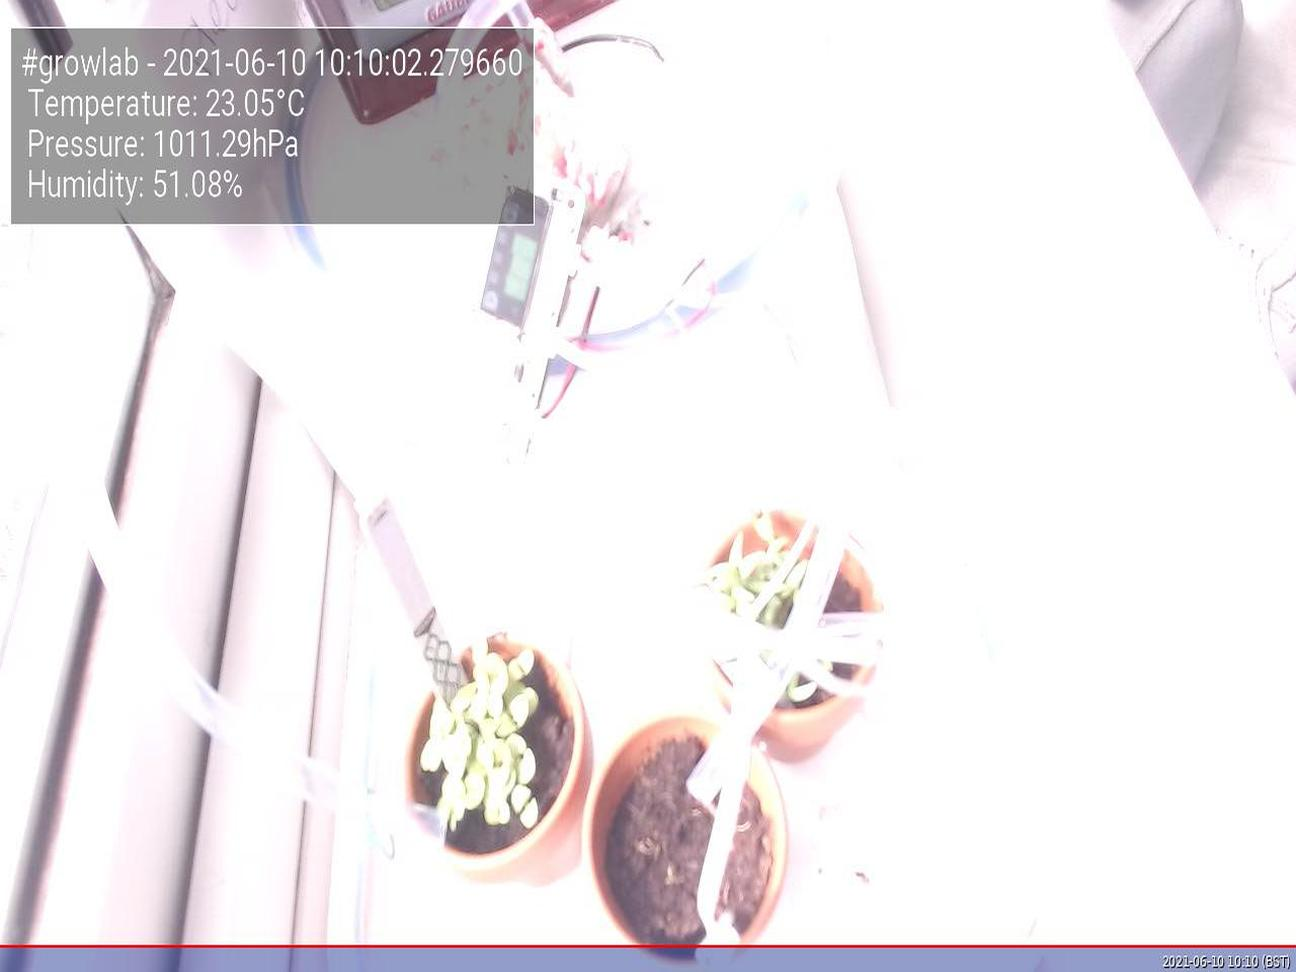
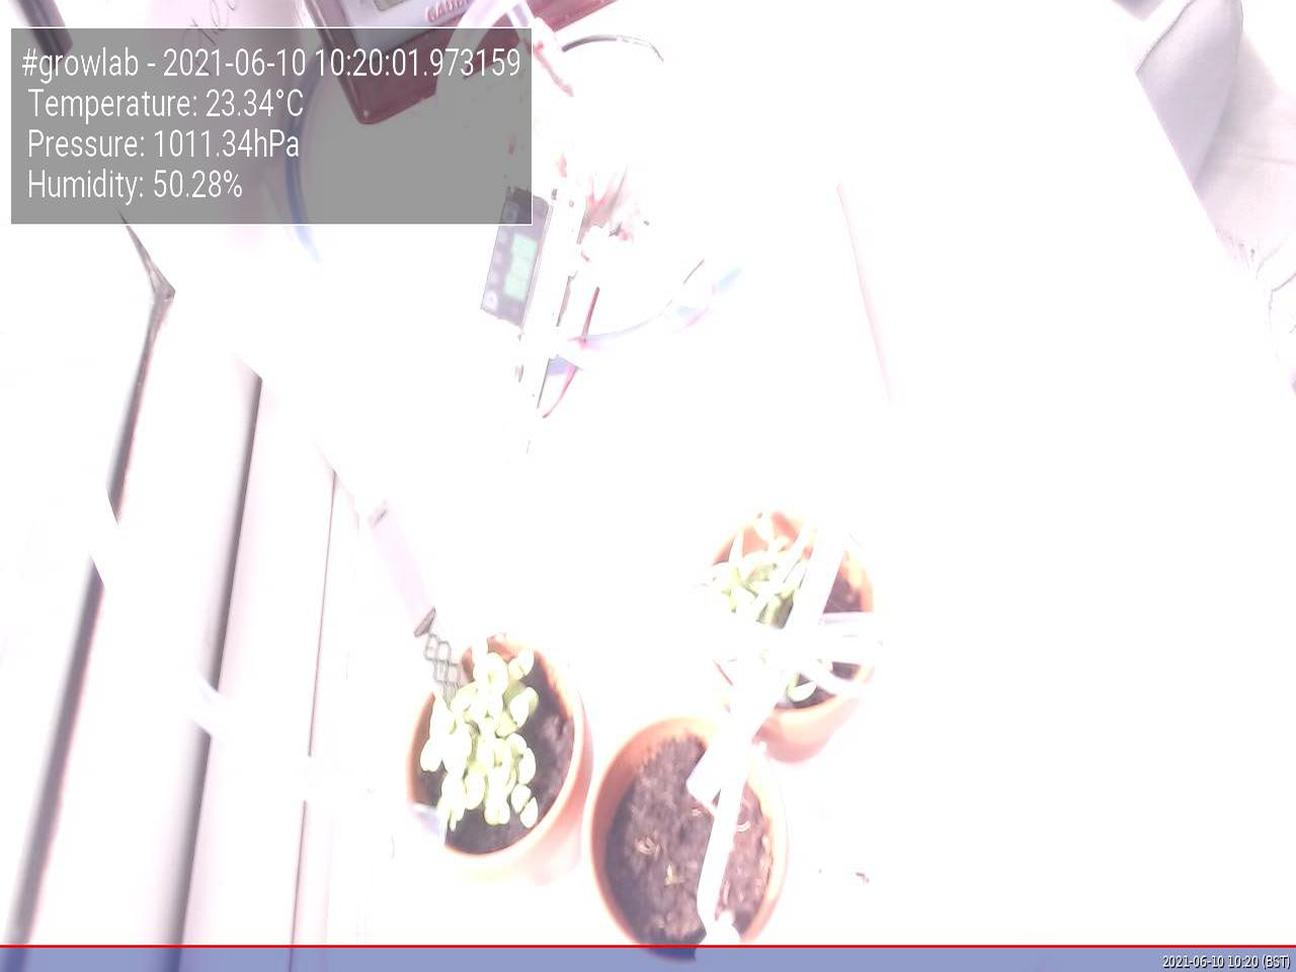
Update images at Thu 10 Jun 10:20:05 BST 2021

diff --git a/app/docs/index.html b/app/docs/index.html
@@ -47,19 +47,19 @@
                         <tbody>
                             <tr>
                                 <td>Time</td>
-                                <td>2021-06-10 10:10:02.279660</td>
+                                <td>2021-06-10 10:20:01.973159</td>
                             </tr>
                             <tr>
                                 <td>Temperature</td>
-                                <td>23.05°C</td>
+                                <td>23.34°C</td>
                             </tr>
                             <tr>
                                 <td>Humidity</td>
-                                <td>51.08%</td>
+                                <td>50.28%</td>
                             </tr>
                             <tr>
                                 <td>Pressure</td>
-                                <td>1011.29hPa</td>
+                                <td>1011.34hPa</td>
                             </tr>
                         </tbody>
                     </table>
@@ -67,7 +67,7 @@
 
                 <h5>Latest image</h5>
                 <div style="width: 85%;">
-                            <img class="figure-img img-fluid rounded" src="./preview.jpg?uid=1623316206.031865">
+                            <img class="figure-img img-fluid rounded" src="./preview.jpg?uid=1623316805.7132728">
                 </div>
             </div>
         </div>
